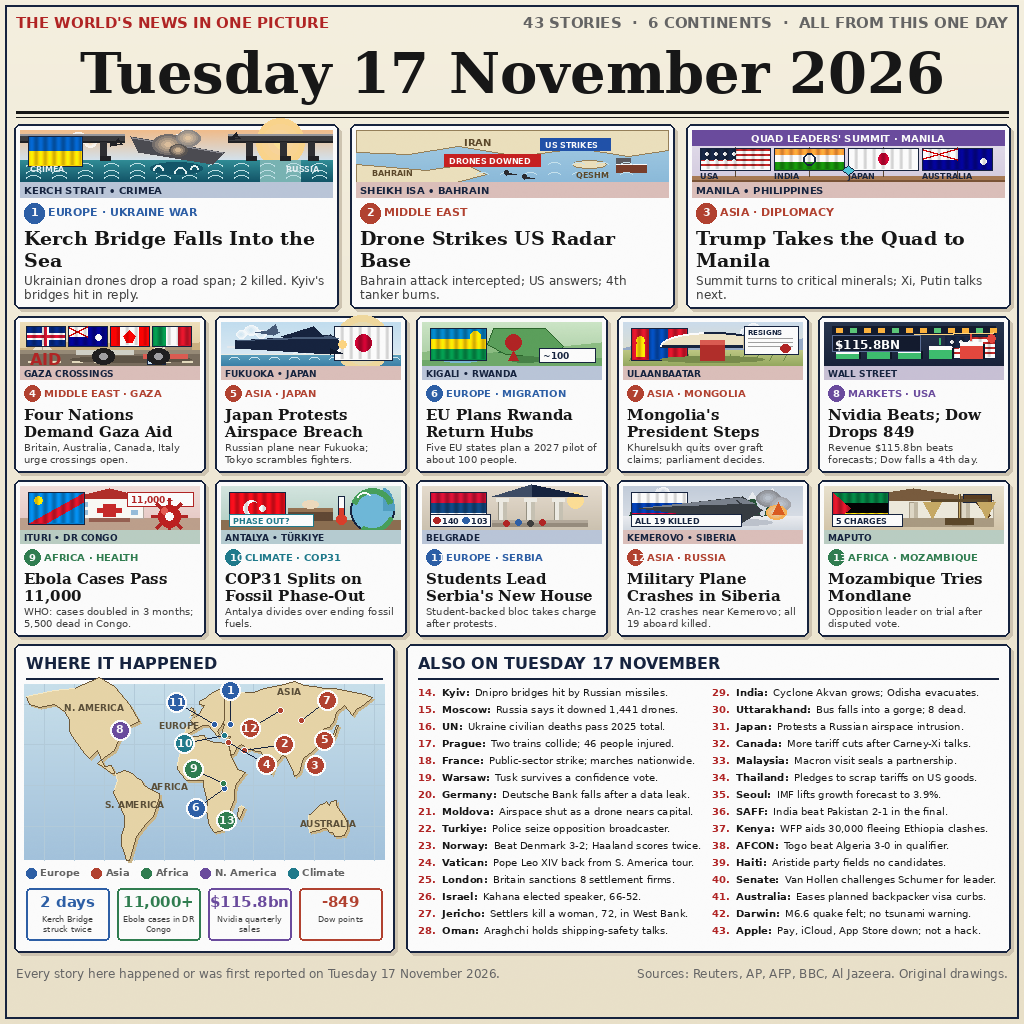
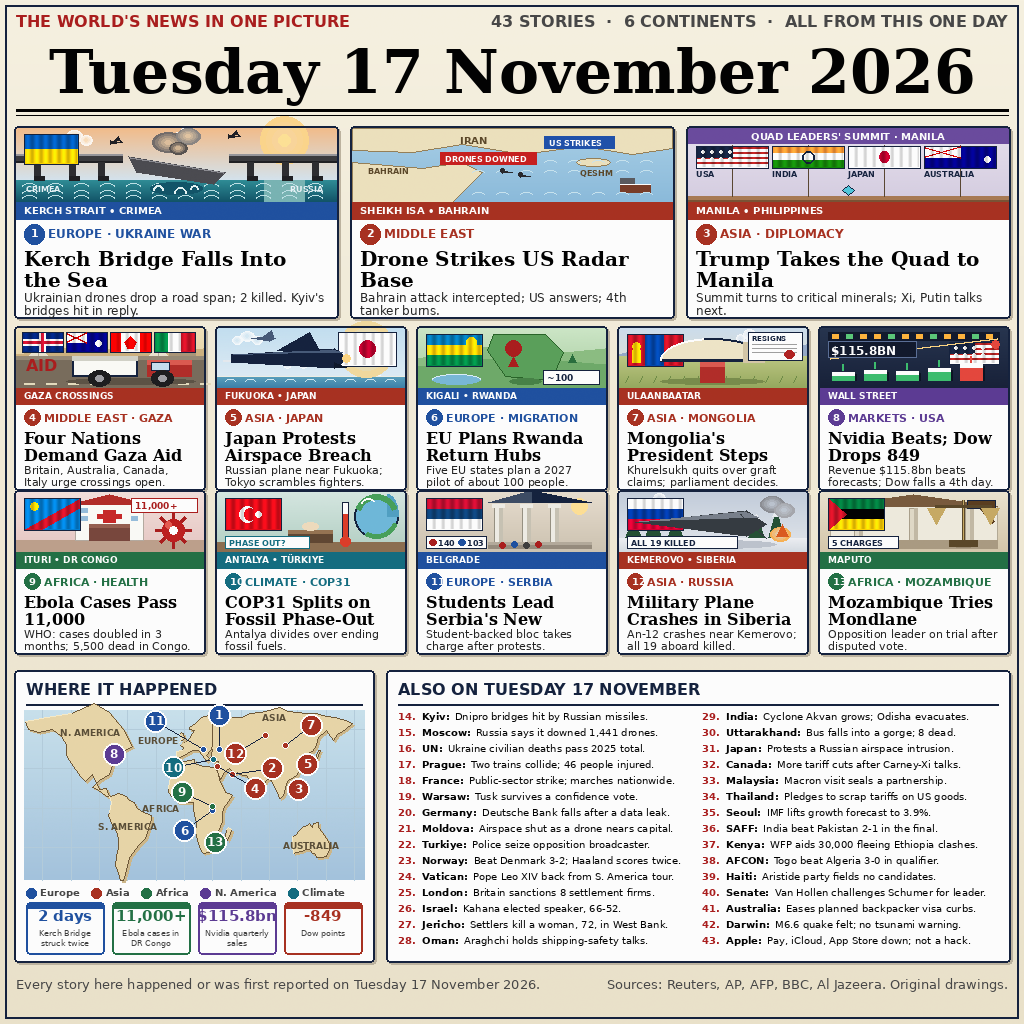
Polish: overall impression — contrast, colour, grid

diff --git a/tools/generate-image.py b/tools/generate-image.py
@@ -22,14 +22,14 @@ SERIF = "/usr/share/fonts/truetype/dejavu/DejaVuSerif.ttf"
 
 NAVY = (19, 33, 61)
 PAPER = (246, 240, 221)
-INK = (20, 20, 20)
-RED = (178, 34, 34)
-GREY = (100, 100, 100)
-BLUE = (43, 94, 167)
-CRIMSON = (179, 64, 46)
-GREEN = (46, 125, 79)
-PURPLE = (106, 74, 158)
-TEAL = (29, 122, 140)
+INK = (0, 0, 0)
+RED = (170, 28, 28)
+GREY = (70, 70, 70)
+BLUE = (30, 80, 160)
+CRIMSON = (168, 48, 32)
+GREEN = (34, 112, 68)
+PURPLE = (92, 58, 148)
+TEAL = (18, 108, 128)
 SLATE = (52, 58, 64)
 
 def font(path, size):
@@ -192,16 +192,16 @@ vgrad(0, 0, W, H, (248, 243, 226), (236, 227, 203))
 d.rectangle([5, 5, W - 6, H - 6], outline=NAVY, width=2)
 
 # ---------- header ----------
-d.text((16, 14), "THE WORLD'S NEWS IN ONE PICTURE", font=font(SANSB, 15), fill=RED)
+d.text((16, 12), "THE WORLD'S NEWS IN ONE PICTURE", font=font(SANSB, 16), fill=RED)
 right = "43 STORIES  ·  6 CONTINENTS  ·  ALL FROM THIS ONE DAY"
-d.text((W - 16 - d.textlength(right, font=font(SANSB, 15)), 14), right,
-       font=font(SANSB, 15), fill=GREY)
+d.text((W - 16 - d.textlength(right, font=font(SANSB, 16)), 12), right,
+       font=font(SANSB, 16), fill=GREY)
 # ---------- giant date ----------
 title = "Tuesday 17 November 2026"
-tw = d.textlength(title, font=font(SERIFB, 56))
-d.text(((W - tw) / 2, 40), title, font=font(SERIFB, 56), fill=INK)
-d.line([16, 112, W - 16, 112], fill=INK, width=3)
-d.line([16, 117, W - 16, 117], fill=INK, width=1)
+tw = d.textlength(title, font=font(SERIFB, 60))
+d.text(((W - tw) / 2, 36), title, font=font(SERIFB, 60), fill=INK)
+d.line([16, 110, W - 16, 110], fill=INK, width=3)
+d.line([16, 115, W - 16, 115], fill=INK, width=1)
 
 # ---------- pictograms ----------
 def pic(kind, x, y, w, h):
@@ -611,47 +611,53 @@ def light(col):
 
 def draw_panel(x, y, w, h, p, large):
     num, cat, col, head, dek, cap, kind = p
-    pic_h = 52 if large else 44
-    strip_h = 15 if large else 13
+    # taller, edge-to-edge illustration: the picture fills the card like
+    # the reference, instead of a small icon floating in white space
+    pic_h = 74 if large else 60
+    strip_h = 17 if large else 16
     # soft drop shadow so the card lifts off the paper
-    d.rounded_rectangle([x + 3, y + 3, x + w + 3, y + h + 3], radius=6, fill=(208, 198, 178))
-    d.rounded_rectangle([x, y, x + w, y + h], radius=6, fill=(255, 255, 255), outline=NAVY, width=2)
-    pic(kind, x + 6, y + 6, w - 12, pic_h)
-    sy = y + 6 + pic_h
-    d.rectangle([x + 6, sy, x + w - 6, sy + strip_h], fill=light(col))
-    d.text((x + 10, sy + 2), cap, font=font(SANSB, 10 if large else 9), fill=NAVY)
-    cy = sy + strip_h + 6
+    d.rounded_rectangle([x + 2, y + 2, x + w + 2, y + h + 2], radius=4, fill=(190, 180, 160))
+    d.rounded_rectangle([x, y, x + w, y + h], radius=4, fill=(255, 255, 255), outline=NAVY, width=2)
+    pic(kind, x + 2, y + 2, w - 4, pic_h)
+    # solid coloured caption band at the foot of the illustration,
+    # white caps on the region colour (the reference's look)
+    sy = y + 2 + pic_h
+    d.rectangle([x + 2, sy, x + w - 2, sy + strip_h], fill=col)
+    d.text((x + 10, sy + 2), cap, font=font(SANSB, 10 if large else 9), fill=(255, 255, 255))
+    # redraw the card outline over the bled illustration
+    d.rounded_rectangle([x, y, x + w, y + h], radius=4, outline=NAVY, width=2)
+    cy = sy + strip_h + 5
     r = 10 if large else 8
     d.ellipse([x + 10, cy, x + 10 + 2 * r, cy + 2 * r], fill=col)
     d.text((x + 10 + r - 3, cy + 2), str(num), font=font(SANSB, 11 if large else 10), fill=(255, 255, 255))
-    d.text((x + 14 + 2 * r, cy + 2), cat, font=font(SANSB, 11 if large else 10), fill=col)
-    hy = cy + 2 * r + 4
-    hf = font(SERIFB, 19 if large else 15)
+    d.text((x + 14 + 2 * r, cy + 2), cat, font=font(SANSB, 12 if large else 11), fill=col)
+    hy = cy + 2 * r + 3
+    hf = font(SERIFB, 20 if large else 16)
     hlines = wrap(d, head, hf, w - 20)
     for i, ln in enumerate(hlines[:2]):
-        d.text((x + 10, hy + i * (22 if large else 17)), ln, font=hf, fill=INK)
-    dy = hy + len(hlines[:2]) * (22 if large else 17) + 2
-    df = font(SANS, 12 if large else 10)
+        d.text((x + 10, hy + i * (21 if large else 17)), ln, font=hf, fill=INK)
+    dy = hy + len(hlines[:2]) * (21 if large else 17) + 1
+    df = font(SANS, 12 if large else 11)
     for i, ln in enumerate(wrap(d, dek, df, w - 20)[:2]):
-        d.text((x + 10, dy + i * (14 if large else 12)), ln, font=df, fill=(60, 60, 60))
+        d.text((x + 10, dy + i * (13 if large else 12)), ln, font=df, fill=(35, 35, 35))
 
-# row 1: 3 large panels (184 high: the dek needs two full lines)
+# row 1: 3 large panels (192 high: taller picture, two full dek lines)
 for i, p in enumerate(PANELS[:3]):
-    draw_panel(14 + i * 336, 124, 324, 184, p, True)
-# rows 2 and 3: 5 small panels each
+    draw_panel(14 + i * 336, 126, 324, 192, p, True)
+# rows 2 and 3: 5 small panels each (164 high, same 8px gutters)
 for row, group in enumerate((PANELS[3:8], PANELS[8:13])):
     for i, p in enumerate(group):
-        draw_panel(14 + i * 201, 316 + row * 164, 191, 156, p, False)
+        draw_panel(14 + i * 201, 326 + row * 164, 191, 164, p, False)
 
 # ---------- bottom: map + also list ----------
-by = 644
+by = 670
 # map panel (left, wider now so the world map can actually be read)
-mx, mw, mh = 14, 380, 308
-d.rounded_rectangle([mx + 3, by + 3, mx + mw + 3, by + mh + 3], radius=6, fill=(208, 198, 178))
-d.rounded_rectangle([mx, by, mx + mw, by + mh], radius=6, fill=(255, 255, 255), outline=NAVY, width=2)
+mx, mw, mh = 14, 360, 292
+d.rounded_rectangle([mx + 2, by + 2, mx + mw + 2, by + mh + 2], radius=4, fill=(190, 180, 160))
+d.rounded_rectangle([mx, by, mx + mw, by + mh], radius=4, fill=(255, 255, 255), outline=NAVY, width=2)
 d.text((mx + 12, by + 10), "WHERE IT HAPPENED", font=font(SANSB, 16), fill=NAVY)
 d.line([mx + 12, by + 34, mx + mw - 12, by + 34], fill=NAVY, width=2)
-mapx, mapy, mapw, maph = mx + 10, by + 40, mw - 20, 176
+mapx, mapy, mapw, maph = mx + 10, by + 40, mw - 20, 170
 # sea with a depth gradient, lighter near the top
 vgrad(mapx, mapy, mapw, maph, (202, 226, 238), (164, 196, 222))
 # equirectangular projection: lon -170..190, lat 75..-55
@@ -678,7 +684,7 @@ for la in (60, 30, 0, -30):
 LAND = [
     ([(-168, 66), (-140, 70), (-120, 72), (-95, 80), (-80, 73), (-65, 60), (-55, 47), (-70, 42), (-75, 35), (-80, 26), (-90, 21), (-97, 16), (-92, 14), (-83, 9), (-79, 9), (-83, 15), (-90, 14), (-97, 26), (-105, 20), (-110, 24), (-120, 34), (-125, 40), (-125, 49), (-130, 55), (-140, 60), (-155, 58), (-165, 60)], "N. AMERICA", -100, 58),
     ([(-79, 9), (-77, 4), (-80, -3), (-81, -6), (-77, -12), (-72, -18), (-70, -23), (-70, -30), (-72, -37), (-73, -44), (-70, -50), (-68, -55), (-65, -55), (-62, -48), (-58, -38), (-52, -32), (-48, -28), (-41, -23), (-35, -9), (-35, -6), (-44, -3), (-50, 0), (-53, 4), (-58, 6), (-62, 9), (-70, 11), (-75, 10)], "S. AMERICA", -60, -14),
-    ([(-10, 36), (-9, 43), (-2, 44), (-1, 46), (-4, 48), (-1, 50), (2, 51), (5, 53), (8, 57), (10, 59), (5, 60), (5, 62), (12, 65), (18, 69), (25, 71), (30, 70), (35, 68), (40, 68), (45, 65), (48, 60), (45, 55), (40, 50), (38, 46), (32, 46), (28, 45), (23, 40), (26, 38), (23, 36), (19, 40), (15, 44), (12, 44), (8, 44), (3, 42), (-9, 37)], "EUROPE", -15, 45),
+    ([(-10, 36), (-9, 43), (-2, 44), (-1, 46), (-4, 48), (-1, 50), (2, 51), (5, 53), (8, 57), (10, 59), (5, 60), (5, 62), (12, 65), (18, 69), (25, 71), (30, 70), (35, 68), (40, 68), (45, 65), (48, 60), (45, 55), (40, 50), (38, 46), (32, 46), (28, 45), (23, 40), (26, 38), (23, 36), (19, 40), (15, 44), (12, 44), (8, 44), (3, 42), (-9, 37)], "EUROPE", -28, 52),
     ([(-5, 50), (-3, 53), (-5, 56), (-3, 58), (-1, 57), (0, 53)], None, None, None),
     ([(-17, 15), (-16, 20), (-13, 27), (-10, 31), (-6, 35), (0, 36), (10, 37), (11, 34), (20, 32), (25, 32), (30, 31), (32, 31), (35, 28), (37, 22), (39, 18), (43, 12), (48, 11), (51, 10), (46, 5), (41, 0), (40, -5), (40, -10), (36, -18), (33, -26), (28, -33), (20, -35), (17, -32), (15, -27), (12, -18), (13, -12), (9, -1), (9, 4), (-8, 4), (-13, 8), (-17, 12)], "AFRICA", -25, 0),
     ([(44, -16), (47, -15), (50, -16), (49, -20), (45, -25), (43, -22)], None, None, None),
@@ -693,7 +699,7 @@ for poly, lab, llo, lla in LAND:
 PINS = {1: (37, 45, 0, -34), 2: (50.5, 26, 40, -6), 3: (121, 14.5, 0, 0),
         4: (34.5, 31.5, 38, 22), 5: (130.5, 33.6, 0, 0), 6: (30, -2, -28, 20),
         7: (107, 48, 26, -20), 8: (-74, 41, 0, 0), 9: (29.5, 1.5, -30, -14),
-        10: (30.7, 36.9, -40, 8), 11: (20.5, 44.8, -38, -22),
+        10: (30.7, 36.9, -40, 8), 11: (20.5, 44.8, -48, -28),
         12: (86, 55.3, -30, 18), 13: (32.6, -26, 0, 0)}
 PINCOL = {1: BLUE, 2: CRIMSON, 3: CRIMSON, 4: CRIMSON, 5: CRIMSON, 6: BLUE, 7: CRIMSON, 8: PURPLE,
           9: GREEN, 10: TEAL, 11: BLUE, 12: CRIMSON, 13: GREEN}
@@ -703,10 +709,10 @@ for n, (lo, la, dx, dy) in PINS.items():
     if dx or dy:
         d.line([px, py, cx, cy], fill=NAVY, width=1)
         d.ellipse([px - 3, py - 3, px + 3, py + 3], fill=PINCOL[n], outline=(255, 255, 255), width=1)
-    d.ellipse([cx - 10, cy - 10, cx + 10, cy + 10], fill=PINCOL[n], outline=(255, 255, 255), width=2)
-    nf = font(SANSB, 11)
+    d.ellipse([cx - 11, cy - 11, cx + 11, cy + 11], fill=PINCOL[n], outline=(255, 255, 255), width=2)
+    nf = font(SANSB, 12)
     d.text((cx - d.textlength(str(n), font=nf) / 2, cy - 8), str(n), font=nf, fill=(255, 255, 255))
-ly = by + 222
+ly = by + 216
 lx_leg = mx + 12
 for col, label in [(BLUE, "Europe"), (CRIMSON, "Asia"), (GREEN, "Africa"), (PURPLE, "N. America"), (TEAL, "Climate")]:
     d.ellipse([lx_leg, ly + 2, lx_leg + 10, ly + 12], fill=col)
@@ -720,11 +726,13 @@ STATS = [("2 days", "Kerch Bridge struck twice", BLUE),
          ("$115.8bn", "Nvidia quarterly sales", PURPLE),
          ("-849", "Dow points", CRIMSON)]
 sw = (mw - 24 - 3 * 8) // 4
-sy0 = by + 244
+sy0 = by + 232
 for i, (num, lab, col) in enumerate(STATS):
     bx0 = mx + 12 + i * (sw + 8)
     d.rounded_rectangle([bx0, sy0, bx0 + sw, sy0 + 52], radius=4,
                         fill=(255, 255, 255), outline=col, width=2)
+    # coloured top bar ties each stat to its region colour
+    d.rectangle([bx0 + 2, sy0 + 2, bx0 + sw - 2, sy0 + 6], fill=col)
     nf = font(SANSB, 15)
     d.text((bx0 + (sw - d.textlength(num, font=nf)) / 2, sy0 + 5), num, font=nf, fill=col)
     lf = font(SANS, 8)
@@ -733,9 +741,9 @@ for i, (num, lab, col) in enumerate(STATS):
                font=lf, fill=(60, 60, 60))
 
 # also list (right)
-lx, lw = 406, 604
-d.rounded_rectangle([lx + 3, by + 3, lx + lw + 3, by + mh + 3], radius=6, fill=(208, 198, 178))
-d.rounded_rectangle([lx, by, lx + lw, by + mh], radius=6, fill=(255, 255, 255), outline=NAVY, width=2)
+lx, lw = 386, 624
+d.rounded_rectangle([lx + 2, by + 2, lx + lw + 2, by + mh + 2], radius=4, fill=(190, 180, 160))
+d.rounded_rectangle([lx, by, lx + lw, by + mh], radius=4, fill=(255, 255, 255), outline=NAVY, width=2)
 d.text((lx + 12, by + 10), "ALSO ON TUESDAY 17 NOVEMBER", font=font(SANSB, 16), fill=NAVY)
 d.line([lx + 12, by + 34, lx + lw - 12, by + 34], fill=NAVY, width=2)
 ALSO = [
@@ -770,11 +778,11 @@ ALSO = [
     ("Darwin:", " M6.6 quake felt; no tsunami warning."),
     ("Apple:", " Pay, iCloud, App Store down; not a hack."),
 ]
-col_w = 286
+col_w = 296
 for ci in range(2):
     items = ALSO[ci * 15:(ci + 1) * 15]
     cx = lx + 12 + ci * (col_w + 8)
-    yy = by + 42
+    yy = by + 40
     for j, (bold, rest) in enumerate(items):
         num = 14 + ci * 15 + j
         d.text((cx, yy), f"{num}.", font=font(SANSB, 10), fill=RED)
@@ -786,24 +794,24 @@ for ci in range(2):
         bw = d.textlength(bold, font=font(SANSB, 10))
         d.text((bx + bw + 2, yy), flines[0][len(bold):], font=font(SANS, 10), fill=INK)
         if len(flines) > 1:
-            d.text((bx, yy + 12), flines[1], font=font(SANS, 10), fill=INK)
-            yy += 29
+            d.text((bx, yy + 11), flines[1], font=font(SANS, 10), fill=INK)
+            yy += 26
         else:
-            yy += 17
+            yy += 16
 
 # ---------- footer ----------
-d.text((16, 966), "Every story here happened or was first reported on Tuesday 17 November 2026.",
-       font=font(SANS, 12), fill=GREY)
+d.text((16, 976), "Every story here happened or was first reported on Tuesday 17 November 2026.",
+       font=font(SANS, 13), fill=GREY)
 foot_r = "Sources: Reuters, AP, AFP, BBC, Al Jazeera. Original drawings."
-d.text((W - 16 - d.textlength(foot_r, font=font(SANS, 12)), 966), foot_r,
-       font=font(SANS, 12), fill=GREY)
+d.text((W - 16 - d.textlength(foot_r, font=font(SANS, 13)), 976), foot_r,
+       font=font(SANS, 13), fill=GREY)
 
 # a whisper of film grain over the whole page (seeded, so it is identical
 # every run): it takes the flat digital edge off the paper and the drawings
 rng = random.Random(20261117)
 noise = Image.new("L", (W, H))
-noise.putdata([128 + rng.randint(-10, 10) for _ in range(W * H)])
-img = Image.blend(img, Image.merge("RGB", (noise, noise, noise)), 0.03)
+noise.putdata([128 + rng.randint(-7, 7) for _ in range(W * H)])
+img = Image.blend(img, Image.merge("RGB", (noise, noise, noise)), 0.02)
 
 img.save(OUT, "PNG", optimize=True)
 print("wrote", OUT, os.path.getsize(OUT), "bytes")
